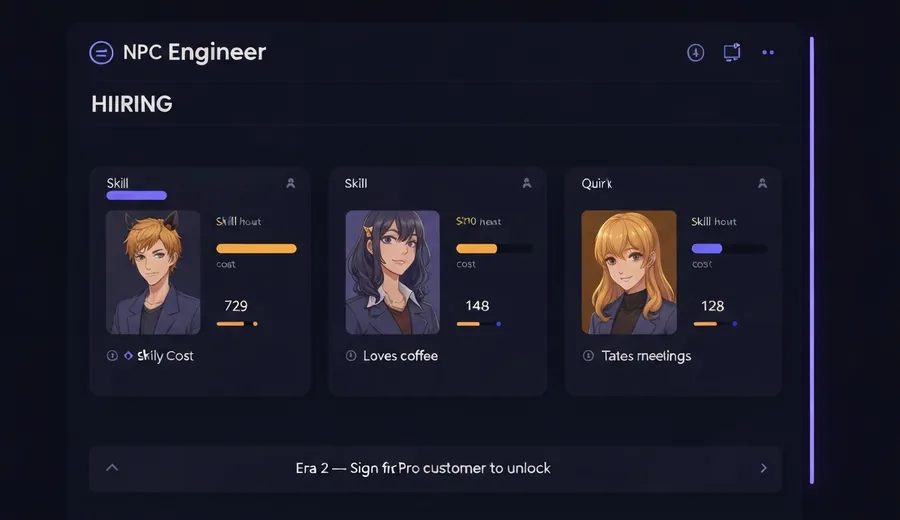
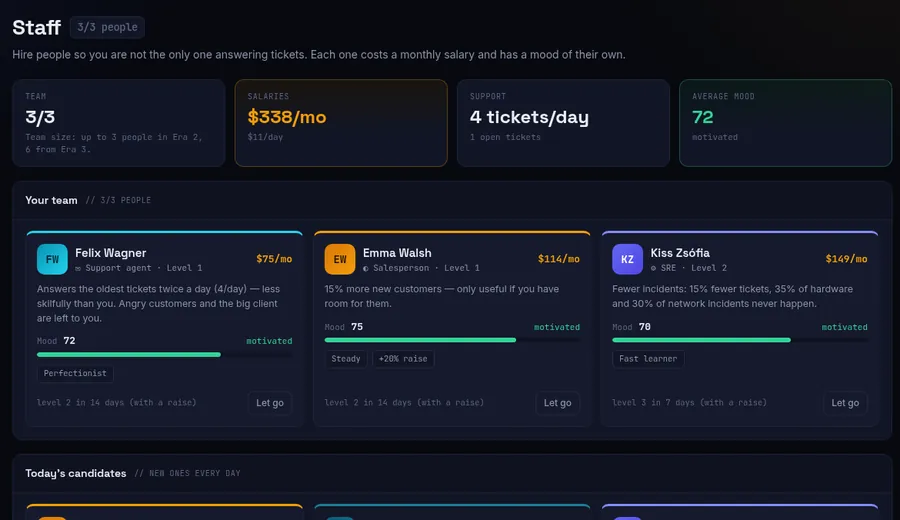
Kezdőlap: a játék valódi tartalma (4 korszak + végcél, élő Csapat)
- Idővonal: 6 kártya (Containers, GPU-aranyláz · tervben, Globális edge · tervben) helyett a játék 4 korszaka
  (Garázs · LAMP, Colo, VPS és felhő, Dedikált · edge) és a végcél kártya, a meglévő era-képekkel; évszámok helyett
  korszakszám, a háttér-számláló 1–4 → $15k.
- Csapat-kártya: a „Staff · planned” és a kitalált makett helyett valódi Csapat-képernyőkép és szöveg.
- GPU-pod, GPU-bérlés, áramszámla, városok/késleltetés, hőmérséklet kivéve; helyette havidíj, bérek, hálózat,
  felhőrégió, edge POP. HU/EN/DE szótár frissítve, a nem használt era5/era6/era.planned kulcsok törölve.
- Mobilon az előnézet lebegő címkéi rejtve (a középső dobozra csúsztak).

Claude-Session: https://claude.ai/code/session_01NSgupJ4idUVocpnyHR1iWa

diff --git a/src/lib/i18n.ts b/src/lib/i18n.ts
@@ -25,7 +25,7 @@ export const TRANSLATIONS: Record<Locale, I18nDict> = {
     'hero.pretag': 'OPEN BETA',
     'hero.title1': 'Run a hosting empire.',
     'hero.title2': 'Your customers are AI.',
-    'hero.sub': 'A browser-based tycoon where every angry customer, every weird ticket, every late-night panic is written by a real LLM that remembers your past mistakes. Start with one beige tower in a garage in 2002 and grow into colocation, VPS and dedicated hosting — or go bankrupt at 4 AM debugging a Karen.',
+    'hero.sub': 'A browser-based tycoon where every angry customer, every weird ticket, every late-night panic is written by a real LLM that remembers your past mistakes. Start with one beige tower in a garage and grow through colocation and VPS into cloud regions, edge POPs and enterprise contracts — or go bankrupt at 4 AM debugging a Karen.',
     'hero.cta_primary': '▶ Start playing free',
     'hero.cta_ghost': 'See how it plays ↓',
     'hero.meta_free': 'Free',
@@ -41,10 +41,10 @@ export const TRANSLATIONS: Record<Locale, I18nDict> = {
     'sec.customers.title1': 'Your customers are not scripts.',
     'sec.customers.title2': 'They are language models with grudges.',
     'sec.customers.sub': 'Every customer you sign is a persistent LLM agent with memory, mood and a billing history. They\'ll praise you on Day 12 and complain loudly on Day 47.',
-    'sec.timeline.label': '2002 → 2026',
-    'sec.timeline.title1': 'From beige tower in your',
-    'sec.timeline.title2': 'to dedicated hosting.',
-    'sec.timeline.sub': 'Four eras are in the game today — garage, colo, VPS, dedicated — and more are planned. Every era unlocks new servers, new customers and new ways to fail.',
+    'sec.timeline.label': '4 eras · 1 final goal',
+    'sec.timeline.title1': 'From a beige tower in a garage',
+    'sec.timeline.title2': 'to cloud regions and edge POPs.',
+    'sec.timeline.sub': 'Four eras, each unlocked by MRR, servers, days in business and reputation. Every era brings new servers, new customers and new ways to fail — and at the end there is a real final goal.',
     'sec.game.label': 'Inside the game',
     'sec.game.title1': 'A real ops console.',
     'sec.game.title2': 'Pretending to be a game.',
@@ -58,25 +58,27 @@ export const TRANSLATIONS: Record<Locale, I18nDict> = {
     'cta_final.ghost': 'Already playing? Log in →',
     'lang.switch_label': 'Lang',
     // Timeline era cards
-    'era1.name': 'Garage Era',
-    'era1.blurb': '1U Pentium 4. Your roommate is the cooling system.',
+    'era1.year': 'ERA 1',
+    'era1.name': 'Garage · LAMP',
+    'era1.blurb': 'One beige LAMP tower and $30 a month. You answer every ticket yourself.',
+    'era2.year': 'ERA 2',
     'era2.name': 'Colo',
-    'era2.blurb': 'Rent a half-rack. Learn what BGP costs.',
-    'era3.name': 'VPS Boom',
-    'era3.blurb': 'Sell slices of metal. Pray no one mines.',
-    'era4.name': 'Dedicated',
-    'era4.blurb': 'A box per customer. Real SLAs, real audits, real invoices.',
-    'era5.name': 'GPU Gold Rush',
-    'era5.blurb': 'Llamas. Lots of llamas. Watts cost more than rent.',
-    'era6.name': 'Global Edge',
-    'era6.blurb': '17 cities. Sub-30ms anywhere. One bad cert away from ruin.',
-    'era.planned': '· planned',
+    'era2.blurb': 'Rack servers and VPS nodes. Hire your first team, buy transit and peering, sign a big dedicated client.',
+    'era3.year': 'ERA 3',
+    'era3.name': 'VPS & cloud',
+    'era3.blurb': 'Cloud regions with 400 slots each, 10 Gbit transit, autoscaling and AI ticket triage. Up to 6 people.',
+    'era4.year': 'ERA 4',
+    'era4.name': 'Dedicated · edge',
+    'era4.blurb': 'Edge POPs near your customers and enterprise contracts at $1,200–2,000 a month. Up to 8 people.',
+    'erag.year': 'FINAL GOAL',
+    'erag.name': 'Hyperscaler',
+    'erag.blurb': '$15,000 MRR, 90 reputation, 2 cloud regions, 3 edge POPs and a live enterprise contract. Then the company keeps running.',
     // Feature cards
     'feat.f1.title': 'LLM-driven customers',
     'feat.f1.desc': 'Your customers are language-model agents with memory, mood and a persona. No scripted dialogue trees.',
     'feat.f1.tag': '// Workers AI · Llama 3.3 70B',
     'feat.f2.title': 'Real tech tree',
-    'feat.f2.desc': 'From a beige LAMP tower to rack servers, VPS nodes and dedicated boxes. Every upgrade has a real cost and a real effect.',
+    'feat.f2.desc': 'From a beige LAMP tower through rack servers and VPS nodes to cloud regions and edge POPs. Every server and upgrade has a real price, a monthly fee and a real effect.',
     'feat.f2.tag': '// 26 upgrades · 4 eras · 1 final goal',
     'feat.f3.title': 'Support shifts',
     'feat.f3.desc': 'Sit down for a 30-minute live shift and answer up to 10 open tickets in chat. Refunds and escalations cost money; good answers win the mood back.',
@@ -89,12 +91,14 @@ export const TRANSLATIONS: Record<Locale, I18nDict> = {
     'feat.f6.tag': '// Leaderboard · marketplace',
     // Shot cards (game preview captions)
     'shot.s1.title': 'Triage at 3 AM',
+    'shot.s1.tag': 'Ticket queue',
     'shot.s1.desc': 'Every ticket is written by an LLM that remembers your history with that customer.',
     'shot.s2.title': 'Watch the burn',
-    'shot.s2.desc': 'Server costs against revenue, the MRR trend and your runway — updated every tick.',
-    'shot.s3.title': 'Staff (planned)',
-    'shot.s3.desc': 'Hiring staff is not in the game yet. It is on the roadmap.',
-    'shot.s3.tag': 'Staff · planned',
+    'shot.s2.tag': 'Finance',
+    'shot.s2.desc': 'Subscriptions and ads against server fees, salaries and network — net per day, MRR trend and runway.',
+    'shot.s3.title': 'Hire (and lose) a team',
+    'shot.s3.desc': 'From era 2: support, SRE and sales. They level up, get tired — and quit if you overload them.',
+    'shot.s3.tag': 'Team',
     'preview.badge': '● Preview',
     'preview.title': '▶ The ops dashboard',
     'preview.desc': 'Ticket inbox, servers, customer mood, marketing mix and the leaderboard.',
@@ -344,7 +348,7 @@ export const TRANSLATIONS: Record<Locale, I18nDict> = {
     'hero.pretag': 'NYÍLT BÉTA',
     'hero.title1': 'Vezess hosting birodalmat.',
     'hero.title2': 'Az ügyfeleid mind AI-k.',
-    'hero.sub': 'Böngészős tycoon-játék, ahol minden mérges ügyfelet, minden fura ticketet és minden hajnali pánikot egy valódi nyelvi modell ír — és emlékszik a korábbi hibáidra. 2002-ben egy bézs toronygéppel indulsz egy garázsban, és colóig, VPS-ig, dedikált szerverekig jutsz — vagy hajnali 4-kor csődbe mész egy Karen miatt.',
+    'hero.sub': 'Böngészős tycoon-játék, ahol minden mérges ügyfelet, minden fura ticketet és minden hajnali pánikot egy valódi nyelvi modell ír — és emlékszik a korábbi hibáidra. Egy bézs toronygéppel indulsz egy garázsban, és colón, VPS-en át felhőrégiókig, edge POP-okig és nagyvállalati szerződésekig jutsz — vagy hajnali 4-kor csődbe mész egy Karen miatt.',
     'hero.cta_primary': '▶ Játék indítása',
     'hero.cta_ghost': 'Nézd meg, hogy megy ↓',
     'hero.meta_free': 'Ingyenes',
@@ -360,10 +364,10 @@ export const TRANSLATIONS: Record<Locale, I18nDict> = {
     'sec.customers.title1': 'Az ügyfeleid nem szkriptek.',
     'sec.customers.title2': 'Nyelvi modellek — haragtartással.',
     'sec.customers.sub': 'Minden ügyfeled egy tartós nyelvimodell-ágens, emlékezettel, hangulattal és számlázási előzményekkel. A 12. napon dicsérnek, a 47. napon hangosan panaszkodnak.',
-    'sec.timeline.label': '2002 → 2026',
-    'sec.timeline.title1': 'A bézs toronygéptől',
-    'sec.timeline.title2': 'a dedikált szerverekig.',
-    'sec.timeline.sub': 'A játékban ma négy korszak van — garázs, colo, VPS, dedikált —, a többi tervben. Minden korszak új szervereket, új ügyfeleket és újfajta bukásokat hoz.',
+    'sec.timeline.label': '4 korszak · 1 végcél',
+    'sec.timeline.title1': 'A garázsbeli bézs toronygéptől',
+    'sec.timeline.title2': 'a felhőrégiókig és edge POP-okig.',
+    'sec.timeline.sub': 'Négy korszak, mindegyiket MRR, szerverszám, működési napok és hírnév nyitja. Minden korszak új szervereket, új ügyfeleket és újfajta bukásokat hoz — a végén pedig valódi végcél vár.',
     'sec.game.label': 'A játék belülről',
     'sec.game.title1': 'Egy valódi ops-konzol.',
     'sec.game.title2': 'Játéknak álcázva.',
@@ -376,24 +380,26 @@ export const TRANSLATIONS: Record<Locale, I18nDict> = {
     'cta_final.primary': '▶ Első szerver indítása',
     'cta_final.ghost': 'Már játszol? Belépés →',
     'lang.switch_label': 'Nyelv',
-    'era1.name': 'Garázs korszak',
-    'era1.blurb': '1U Pentium 4. A szobatársad a hűtőrendszer.',
+    'era1.year': '1. KORSZAK',
+    'era1.name': 'Garázs · LAMP',
+    'era1.blurb': 'Egy bézs LAMP-toronygép havi 30 dollárért. Minden ticketre te válaszolsz.',
+    'era2.year': '2. KORSZAK',
     'era2.name': 'Colo',
-    'era2.blurb': 'Béreljünk fél rackot. Tanuljuk meg mibe kerül a BGP.',
-    'era3.name': 'VPS-boom',
-    'era3.blurb': 'Szeletekben adod el a vasat. Csak senki ne bányásszon rajta.',
-    'era4.name': 'Dedikált',
-    'era4.blurb': 'Ügyfelenként egy gép. Valódi SLA, valódi audit, valódi számla.',
-    'era5.name': 'GPU-aranyláz',
-    'era5.blurb': 'Llamák. Sok llama. A watt többe kerül mint a bérleti díj.',
-    'era6.name': 'Globális edge',
-    'era6.blurb': '17 város. <30 ms bárhol. Egy rossz cert és vége.',
-    'era.planned': '· tervben',
+    'era2.blurb': 'Rackszerverek és VPS-csomópontok. Felveszed az első csapatot, tranzitot és peeringet veszel, és jön az első nagy, dedikált ügyfél.',
+    'era3.year': '3. KORSZAK',
+    'era3.name': 'VPS és felhő',
+    'era3.blurb': 'Felhőrégiók 400-400 hellyel, 10 Gbites tranzit, autoscaling és MI-s ticket-előszűrés. Legfeljebb 6 fős csapat.',
+    'era4.year': '4. KORSZAK',
+    'era4.name': 'Dedikált · edge',
+    'era4.blurb': 'Edge POP-ok az ügyfeleid közelében és nagyvállalati szerződések havi 1200–2000 dollárért. Legfeljebb 8 fős csapat.',
+    'erag.year': 'VÉGCÉL',
+    'erag.name': 'Hyperscaler',
+    'erag.blurb': '15 000 dollár MRR, 90 hírnév, 2 felhőrégió, 3 edge POP és egy élő nagyvállalati szerződés. Utána a céged megy tovább.',
     'feat.f1.title': 'Nyelvi modell az ügyfelek mögött',
     'feat.f1.desc': 'Az ügyfeleid nyelvimodell-ágensek emlékezettel, hangulattal és személyiséggel. Nincs előre megírt párbeszédfa.',
     'feat.f1.tag': '// Workers AI · Llama 3.3 70B',
     'feat.f2.title': 'Valódi fejlesztési fa',
-    'feat.f2.desc': 'A bézs LAMP-toronytól a rackszervereken és VPS-csomópontokon át a dedikált gépekig. Minden fejlesztésnek valódi ára és hatása van.',
+    'feat.f2.desc': 'A bézs LAMP-toronytól a rackszervereken és VPS-csomópontokon át a felhőrégiókig és edge POP-okig. Minden szervernek és fejlesztésnek valódi ára, havidíja és hatása van.',
     'feat.f2.tag': '// 26 fejlesztés · 4 korszak · 1 végcél',
     'feat.f3.title': 'Ügyfélszolgálati műszakok',
     'feat.f3.desc': 'Ülj le egy 30 perces élő műszakra, és válaszolj chatben legfeljebb 10 nyitott ticketre. A visszatérítés és az eszkaláció pénzbe kerül, a jó válasz visszahozza a hangulatot.',
@@ -405,12 +411,14 @@ export const TRANSLATIONS: Record<Locale, I18nDict> = {
     'feat.f6.desc': 'Versenyezz a ranglistán más játékosokkal és NPC-riválisokkal, kereskedj a piactéren. A céged egy hétig akkor is fut, ha nem vagy ott.',
     'feat.f6.tag': '// Ranglista · piactér',
     'shot.s1.title': 'Ticketek hajnali 3-kor',
+    'shot.s1.tag': 'Ticketsor',
     'shot.s1.desc': 'Minden ticketet nyelvi modell ír, amely emlékszik a közös múltatokra az adott ügyféllel.',
     'shot.s2.title': 'Figyeld a költéseket',
-    'shot.s2.desc': 'Szerverköltség a bevétellel szemben, MRR-trend és a kifutás — minden tickkel frissül.',
-    'shot.s3.title': 'Munkatársak (tervben)',
-    'shot.s3.desc': 'Munkatársat felvenni még nem lehet a játékban. Tervben van.',
-    'shot.s3.tag': 'Munkatársak · tervben',
+    'shot.s2.tag': 'Pénzügyek',
+    'shot.s2.desc': 'Előfizetések és hirdetések a szerver-havidíjjal, a bérekkel és a hálózattal szemben — napi nettó, MRR-trend és kifutás.',
+    'shot.s3.title': 'Csapat — felvétel és felmondás',
+    'shot.s3.desc': 'A 2. korszaktól: ügyfélszolgálatos, SRE és értékesítő. Fejlődnek, elfáradnak — és felmondanak, ha túlhajtod őket.',
+    'shot.s3.tag': 'Csapat',
     'preview.badge': '● Előnézet',
     'preview.title': '▶ A vezérlőpult',
     'preview.desc': 'Ticket-postaláda, szerverek, ügyfélhangulat, marketingmix és ranglista.',
@@ -657,7 +665,7 @@ export const TRANSLATIONS: Record<Locale, I18nDict> = {
     'hero.pretag': 'OFFENE BETA',
     'hero.title1': 'Führe ein Hosting-Imperium.',
     'hero.title2': 'Deine Kunden sind AI.',
-    'hero.sub': 'Ein Browser-Tycoon, in dem jeder wütende Kunde, jedes seltsame Ticket und jede nächtliche Panik von einem echten Sprachmodell geschrieben wird — und es erinnert sich an deine alten Fehler. Du startest 2002 mit einem beigen Tower in einer Garage und wächst über Colocation und VPS bis zu dedizierten Servern — oder gehst um 4 Uhr morgens pleite, weil eine Karen dich festhält.',
+    'hero.sub': 'Ein Browser-Tycoon, in dem jeder wütende Kunde, jedes seltsame Ticket und jede nächtliche Panik von einem echten Sprachmodell geschrieben wird — und es erinnert sich an deine alten Fehler. Du startest mit einem beigen Tower in einer Garage und wächst über Colocation und VPS bis zu Cloud-Regionen, Edge-POPs und Enterprise-Verträgen — oder gehst um 4 Uhr morgens pleite, weil eine Karen dich festhält.',
     'hero.cta_primary': '▶ Gratis spielen',
     'hero.cta_ghost': 'So spielt es sich ↓',
     'hero.meta_free': 'Kostenlos',
@@ -673,10 +681,10 @@ export const TRANSLATIONS: Record<Locale, I18nDict> = {
     'sec.customers.title1': 'Deine Kunden sind keine Skripte.',
     'sec.customers.title2': 'Es sind Sprachmodelle mit Groll.',
     'sec.customers.sub': 'Jeder Kunde ist ein dauerhafter LLM-Agent mit Gedächtnis, Stimmung und Rechnungshistorie. An Tag 12 loben sie dich, an Tag 47 beschweren sie sich lautstark.',
-    'sec.timeline.label': '2002 → 2026',
-    'sec.timeline.title1': 'Vom beigen Tower in der',
-    'sec.timeline.title2': 'Cousin-Garage zum dedizierten Hosting.',
-    'sec.timeline.sub': 'Vier Epochen sind heute im Spiel — Garage, Colo, VPS, Dedicated —, weitere sind geplant. Jede Epoche schaltet neue Server, neue Kunden und neue Wege zum Scheitern frei.',
+    'sec.timeline.label': '4 Epochen · 1 Endziel',
+    'sec.timeline.title1': 'Vom beigen Tower in der Garage',
+    'sec.timeline.title2': 'zu Cloud-Regionen und Edge-POPs.',
+    'sec.timeline.sub': 'Vier Epochen, jede freigeschaltet durch MRR, Serverzahl, Tage im Geschäft und Ruf. Jede Epoche bringt neue Server, neue Kunden und neue Wege zum Scheitern — und am Ende wartet ein echtes Endziel.',
     'sec.game.label': 'Im Spiel',
     'sec.game.title1': 'Eine echte Ops-Konsole.',
     'sec.game.title2': 'Verkleidet als Spiel.',
@@ -689,24 +697,26 @@ export const TRANSLATIONS: Record<Locale, I18nDict> = {
     'cta_final.primary': '▶ Ersten Server starten',
     'cta_final.ghost': 'Schon dabei? Anmelden →',
     'lang.switch_label': 'Sprache',
-    'era1.name': 'Garagen-Ära',
-    'era1.blurb': '1U Pentium 4. Dein Mitbewohner ist die Kühlung.',
+    'era1.year': 'EPOCHE 1',
+    'era1.name': 'Garage · LAMP',
+    'era1.blurb': 'Ein beiger LAMP-Tower für 30 $ im Monat. Jedes Ticket beantwortest du selbst.',
+    'era2.year': 'EPOCHE 2',
     'era2.name': 'Colo',
-    'era2.blurb': 'Miete einen Halbrack. Lerne, was BGP kostet.',
-    'era3.name': 'VPS-Boom',
-    'era3.blurb': 'Verkaufe Scheiben vom Blech. Bete, dass niemand minet.',
-    'era4.name': 'Dedicated',
-    'era4.blurb': 'Eine Maschine pro Kunde. Echte SLAs, echte Audits, echte Rechnungen.',
-    'era5.name': 'GPU-Goldrausch',
-    'era5.blurb': 'Llamas. Viele Llamas. Watt kostet mehr als Miete.',
-    'era6.name': 'Globale Edge',
-    'era6.blurb': '17 Städte. Sub-30ms überall. Ein schlechtes Zertifikat = Ruin.',
-    'era.planned': '· geplant',
+    'era2.blurb': 'Rack-Server und VPS-Knoten. Stell dein erstes Team ein, kauf Transit und Peering, gewinn einen großen dedizierten Kunden.',
+    'era3.year': 'EPOCHE 3',
+    'era3.name': 'VPS & Cloud',
+    'era3.blurb': 'Cloud-Regionen mit je 400 Plätzen, 10-Gbit-Transit, Autoscaling und KI-Ticket-Triage. Bis zu 6 Leute.',
+    'era4.year': 'EPOCHE 4',
+    'era4.name': 'Dedicated · Edge',
+    'era4.blurb': 'Edge-POPs nah an deinen Kunden und Enterprise-Verträge für 1.200–2.000 $ im Monat. Bis zu 8 Leute.',
+    'erag.year': 'ENDZIEL',
+    'erag.name': 'Hyperscaler',
+    'erag.blurb': '15.000 $ MRR, 90 Ruf, 2 Cloud-Regionen, 3 Edge-POPs und ein laufender Enterprise-Vertrag. Danach läuft deine Firma weiter.',
     'feat.f1.title': 'LLM-gesteuerte Kunden',
     'feat.f1.desc': 'Deine Kunden sind Sprachmodell-Agenten mit Gedächtnis, Stimmung und Persönlichkeit. Keine geskripteten Dialogbäume.',
     'feat.f1.tag': '// Workers AI · Llama 3.3 70B',
     'feat.f2.title': 'Echter Tech-Tree',
-    'feat.f2.desc': 'Vom beigen LAMP-Tower über Rack-Server und VPS-Knoten bis zu dedizierten Maschinen. Jedes Upgrade hat echte Kosten und eine echte Wirkung.',
+    'feat.f2.desc': 'Vom beigen LAMP-Tower über Rack-Server und VPS-Knoten bis zu Cloud-Regionen und Edge-POPs. Jeder Server und jedes Upgrade hat einen echten Preis, eine Monatsgebühr und eine echte Wirkung.',
     'feat.f2.tag': '// 26 Upgrades · 4 Epochen · 1 Endziel',
     'feat.f3.title': 'Support-Schichten',
     'feat.f3.desc': 'Setz dich für eine 30-minütige Live-Schicht hin und beantworte bis zu 10 offene Tickets im Chat. Erstattungen und Eskalationen kosten Geld; gute Antworten holen die Stimmung zurück.',
@@ -718,12 +728,14 @@ export const TRANSLATIONS: Record<Locale, I18nDict> = {
     'feat.f6.desc': 'Tritt auf der Rangliste gegen andere Spieler und NPC-Konkurrenten an und handle auf dem Marktplatz. Deine Firma läuft eine Woche lang weiter, während du weg bist.',
     'feat.f6.tag': '// Rangliste · Marktplatz',
     'shot.s1.title': 'Triage um 3 Uhr morgens',
+    'shot.s1.tag': 'Ticket-Warteschlange',
     'shot.s1.desc': 'Jedes Ticket schreibt ein LLM, das sich an deine Geschichte mit diesem Kunden erinnert.',
     'shot.s2.title': 'Behalte die Kosten im Blick',
-    'shot.s2.desc': 'Serverkosten gegen Umsatz, MRR-Verlauf und Reichweite — mit jedem Tick aktualisiert.',
-    'shot.s3.title': 'Personal (geplant)',
-    'shot.s3.desc': 'Personal einstellen geht im Spiel noch nicht. Es steht auf der Roadmap.',
-    'shot.s3.tag': 'Personal · geplant',
+    'shot.s2.tag': 'Finanzen',
+    'shot.s2.desc': 'Abos und Werbung gegen Servergebühren, Gehälter und Netzwerk — Netto pro Tag, MRR-Verlauf und Reichweite.',
+    'shot.s3.title': 'Ein Team einstellen (und verlieren)',
+    'shot.s3.desc': 'Ab Epoche 2: Support, SRE und Vertrieb. Sie steigen auf, werden müde — und kündigen, wenn du sie überlastest.',
+    'shot.s3.tag': 'Team',
     'preview.badge': '● Vorschau',
     'preview.title': '▶ Das Ops-Dashboard',
     'preview.desc': 'Ticket-Posteingang, Server, Kundenstimmung, Marketing-Mix und Rangliste.',
